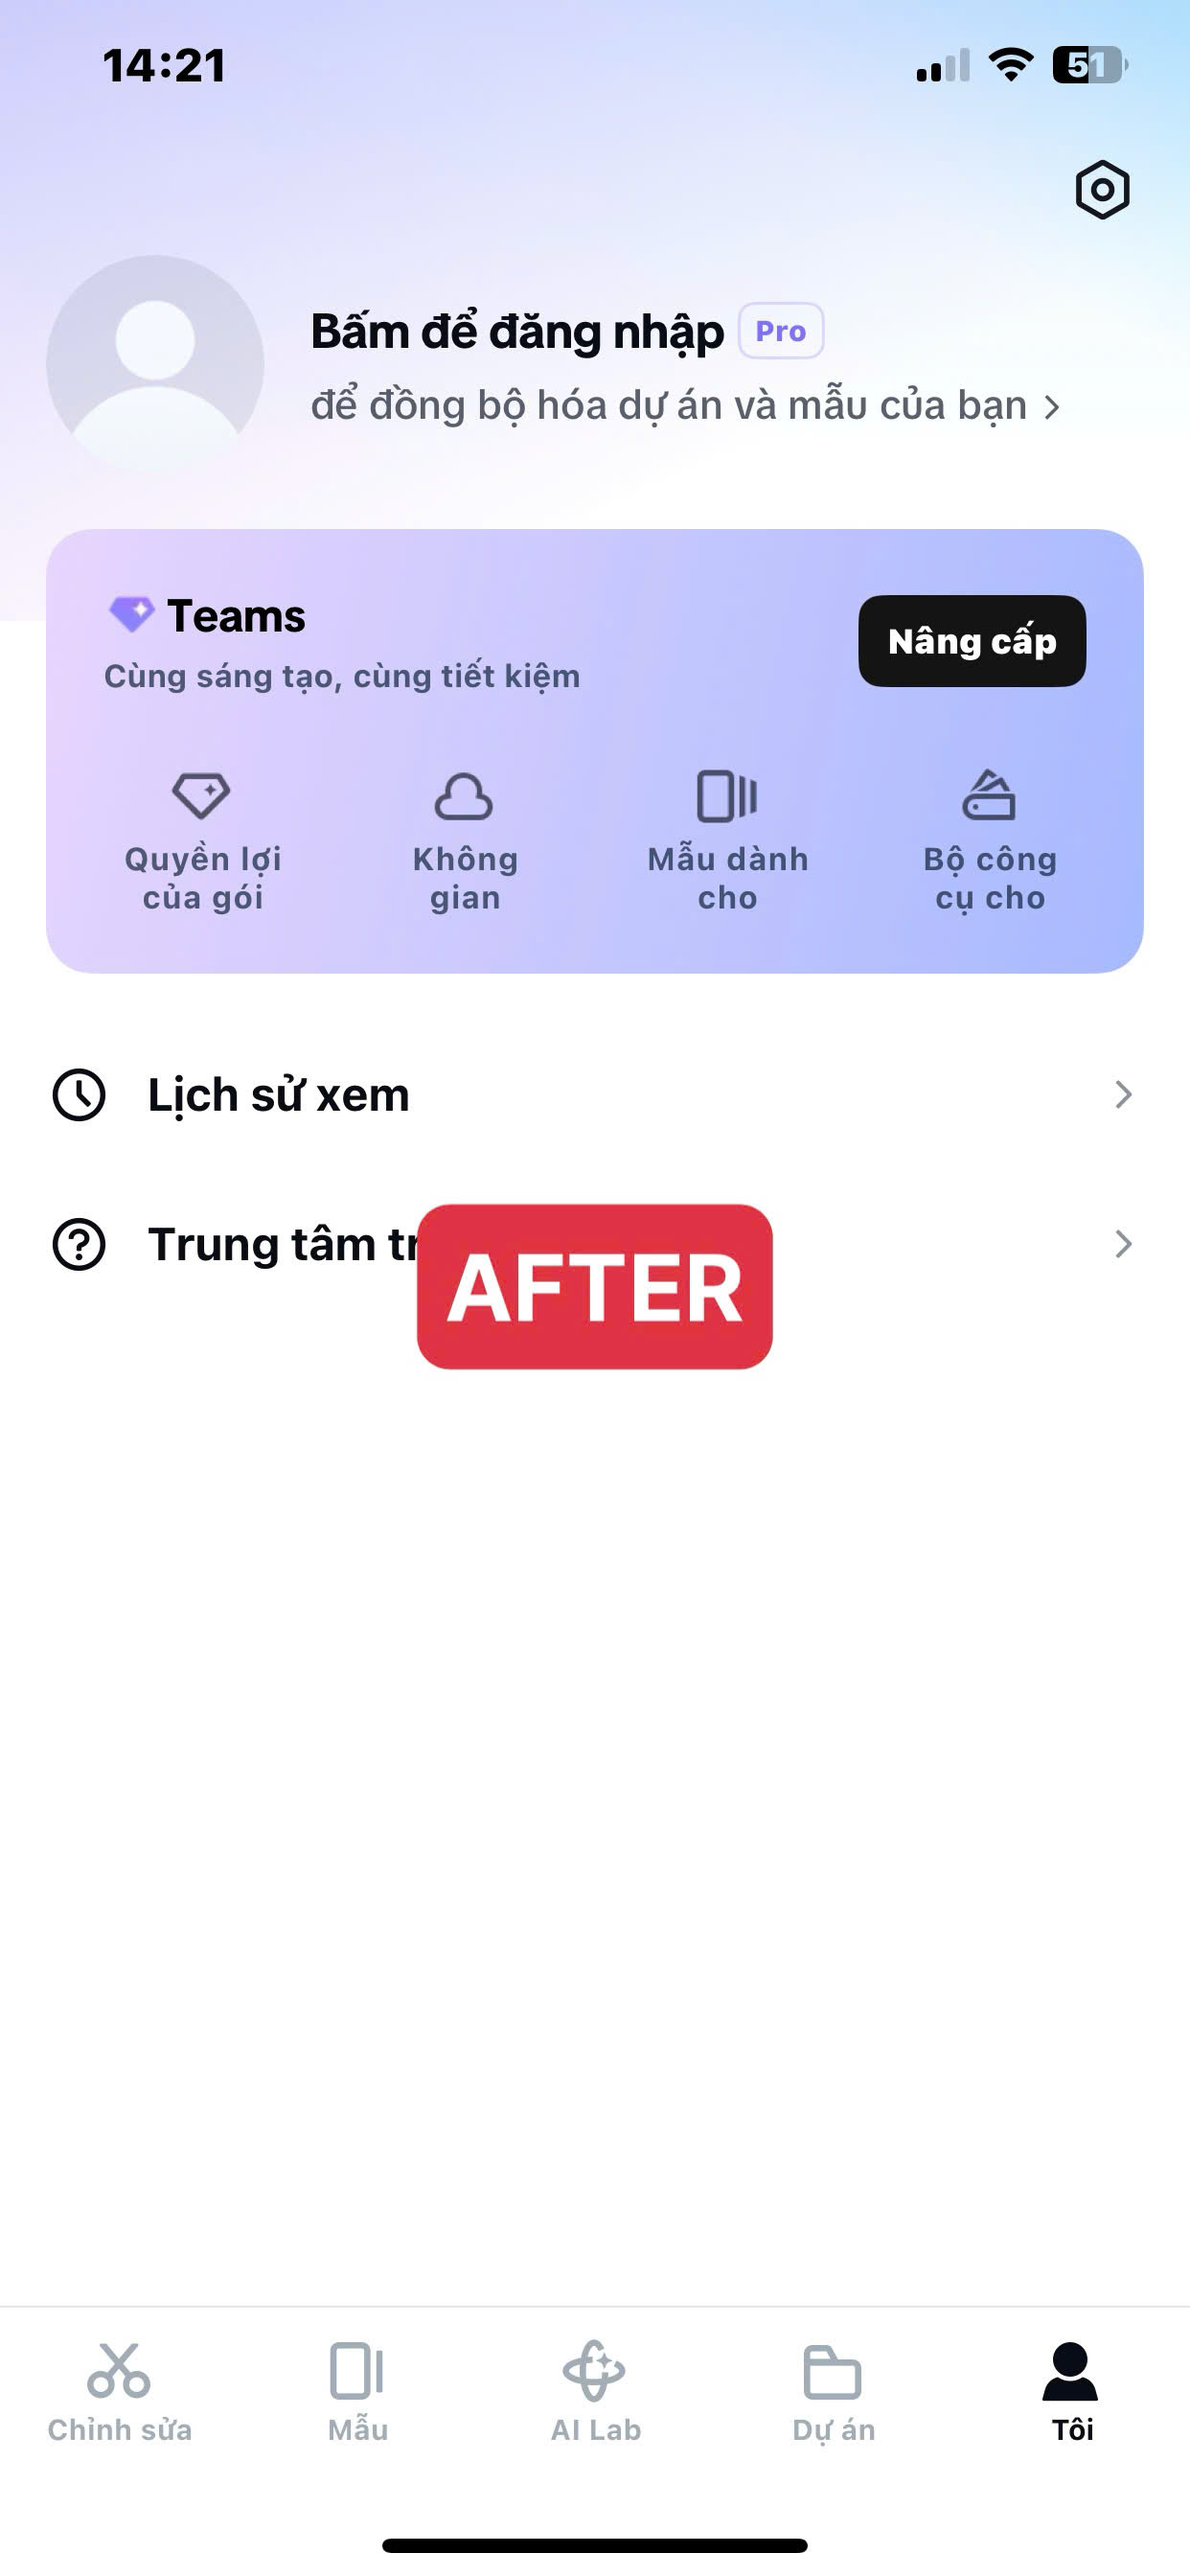
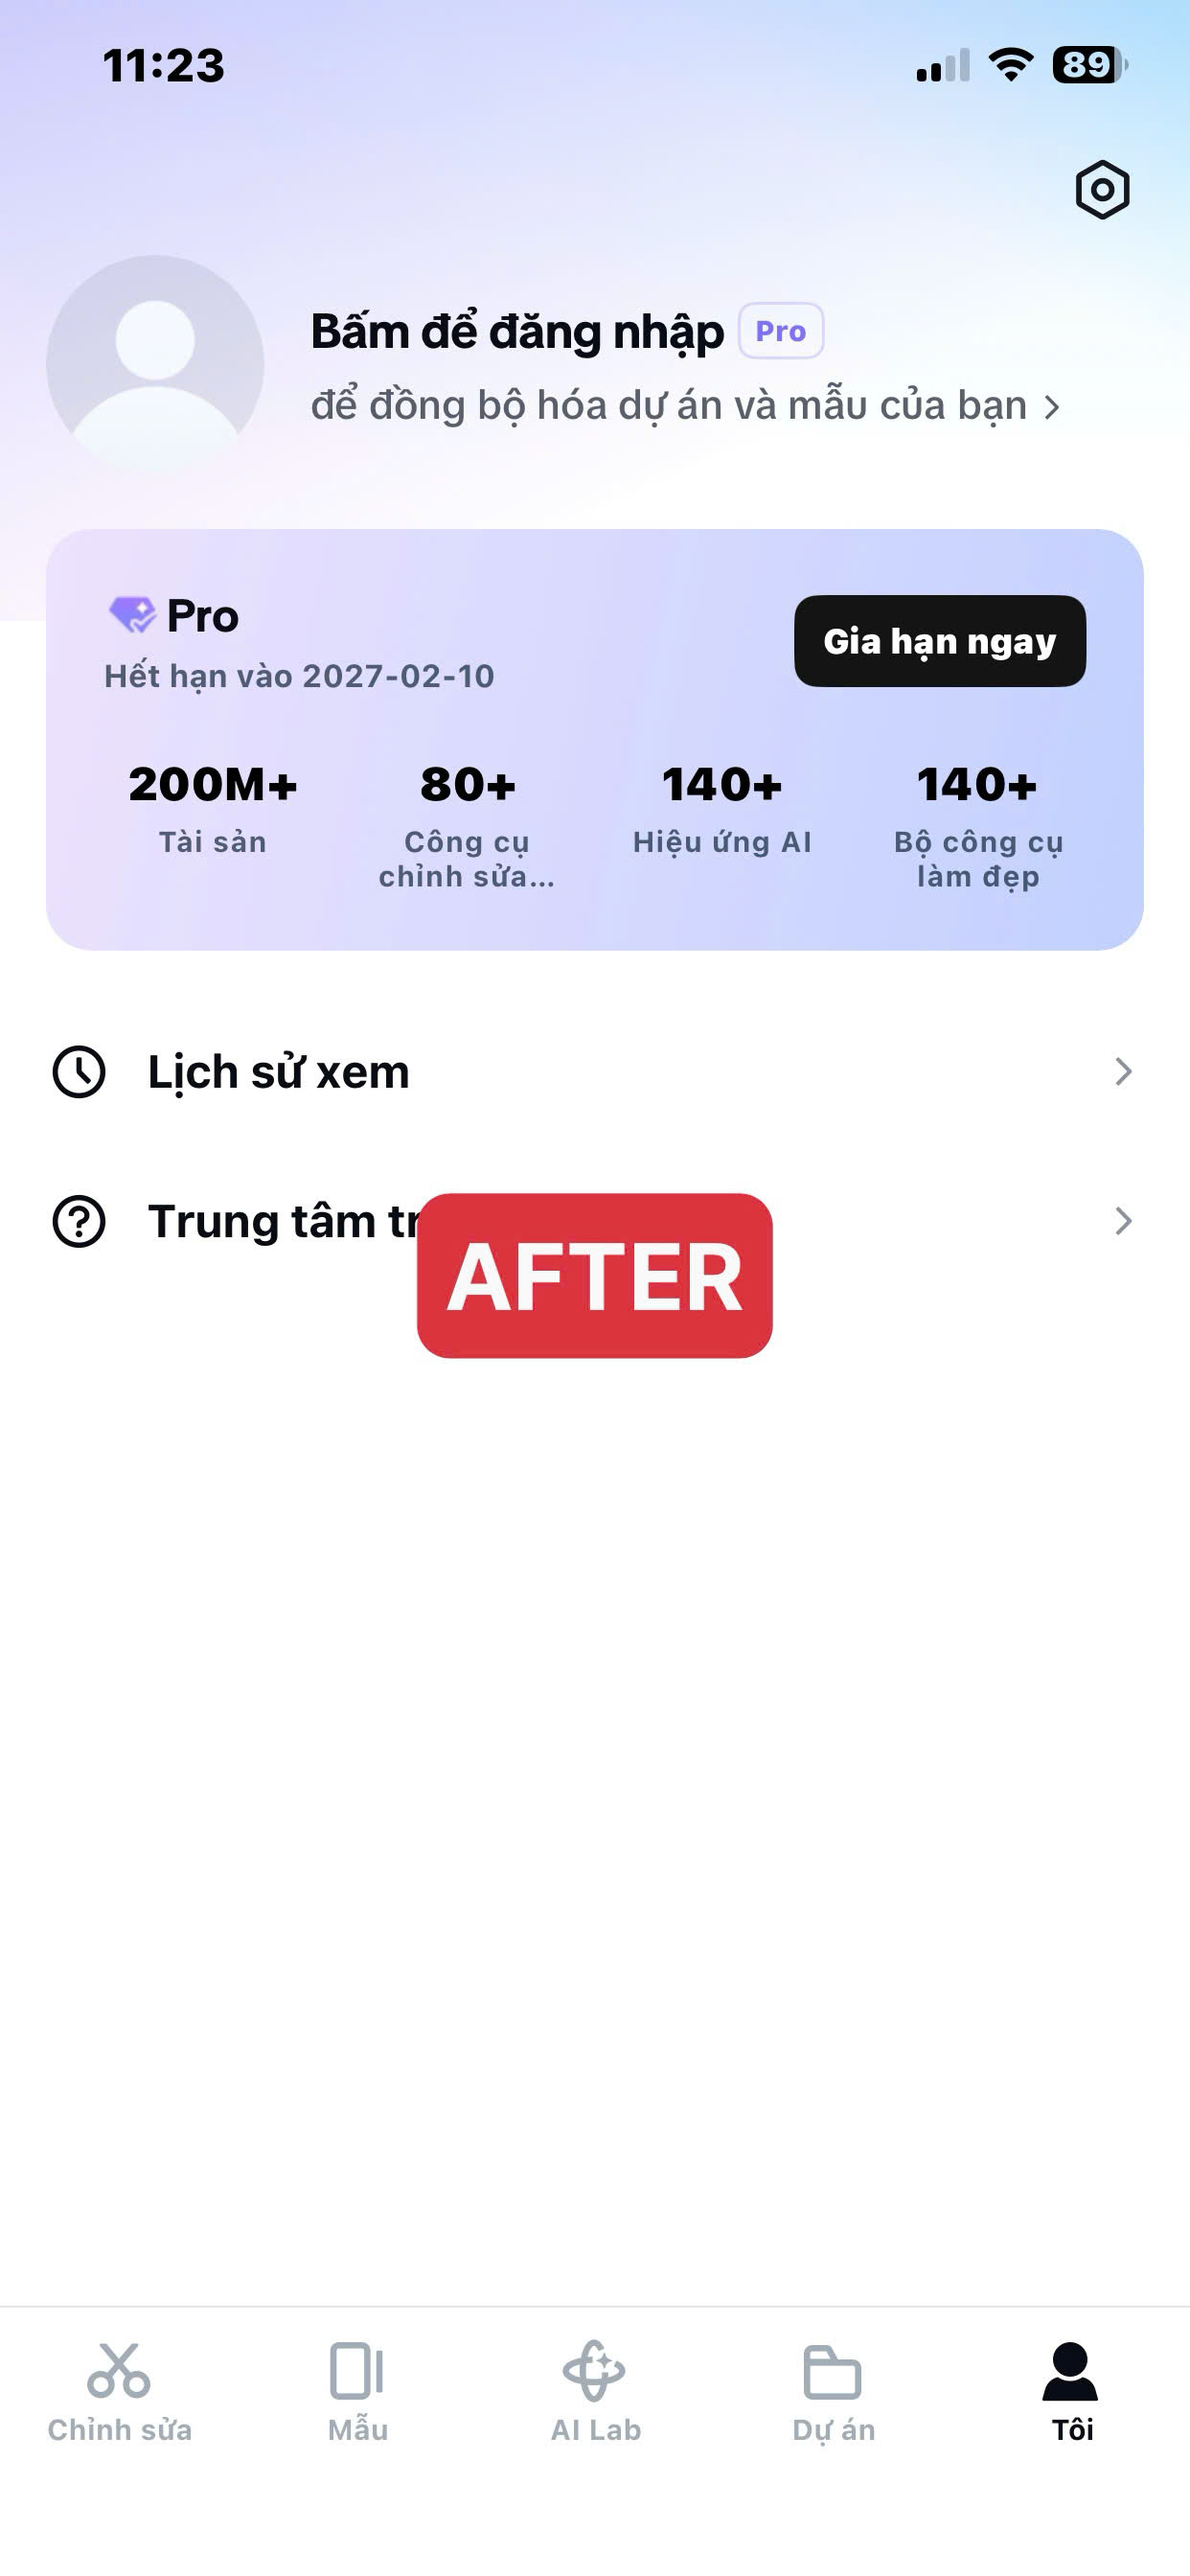
fix

diff --git a/stikdebug.html b/stikdebug.html
@@ -9,6 +9,48 @@
     <link rel="stylesheet" href="https://fonts.googleapis.com/css2?family=Roboto:wght@300;400;500;700&display=swap">
 
     <script>
+        // Disclaimer translation functions - Define early to ensure availability
+        window.disclaimerTranslations = {
+            en: {
+                disclaimer: "<strong>Disclaimer:</strong> This website is for educational purposes only. I'm not responsible for any damage, data loss, or warranty issues caused by using the tools or methods shared here. Use at your own risk.",
+                title: "Translate to Vietnamese"
+            },
+            vi: {
+                disclaimer: "<strong>Tuyên bố miễn trừ:</strong> Trang web này chỉ dành cho mục đích giáo dục. Tôi không chịu trách nhiệm về bất kỳ thiệt hại, mất dữ liệu hoặc vấn đề bảo hành nào do việc sử dụng các công cụ hoặc phương pháp được chia sẻ ở đây. Sử dụng có rủi ro của riêng bạn.",
+                title: "Dịch sang tiếng Anh"
+            }
+        };
+
+        window.currentDisclaimerLanguage = 'en';
+
+        window.toggleDisclaimerTranslate = function() {
+            const disclaimerText = document.getElementById('disclaimerText');
+            const translateBtn = document.getElementById('translateBtn');
+            
+            if (!disclaimerText || !translateBtn) {
+                console.error('Disclaimer elements not found');
+                return;
+            }
+            
+            // Toggle language
+            window.currentDisclaimerLanguage = window.currentDisclaimerLanguage === 'en' ? 'vi' : 'en';
+            
+            // Update text
+            disclaimerText.innerHTML = window.disclaimerTranslations[window.currentDisclaimerLanguage].disclaimer;
+            
+            // Update button title
+            translateBtn.title = window.disclaimerTranslations[window.currentDisclaimerLanguage].title;
+            
+            // Toggle active class for visual feedback
+            translateBtn.classList.toggle('active', window.currentDisclaimerLanguage === 'vi');
+            
+            // Add smooth transition effect
+            disclaimerText.style.opacity = '0.7';
+            setTimeout(() => {
+                disclaimerText.style.opacity = '1';
+            }, 150);
+        };
+
         function includeHTML() {
             var z, i, elmnt, file, xhttp, basepath;
             z = document.getElementsByTagName("*");
@@ -58,9 +100,9 @@
 
         main {
             max-width: 1000px;
-            margin: 0 auto;
+            margin:80px auto 40px;
             background: white;
-            padding: 30px;
+            padding: 20px;
             border-radius: 10px;
             box-shadow: 0 2px 10px rgba(0,0,0,0.1);
         }
@@ -202,7 +244,8 @@
 
         @media (max-width: 768px) {
             main {
-                padding: 20px;
+                margin:120px auto 20px;
+                padding: 15px;
             }
 
             h1 {
@@ -285,6 +328,49 @@
             justify-items: center;
             margin-bottom: 10px;
         }
+
+        .collapsible-section {
+            margin: 22px 0;
+        }
+
+        .collapsible-section > summary {
+            cursor: pointer;
+            list-style: none;
+            user-select: none;
+        }
+
+        .collapsible-section > summary::-webkit-details-marker {
+            display: none;
+        }
+
+        .collapsible-title {
+            display: flex;
+            align-items: center;
+            justify-content: space-between;
+            gap: 12px;
+            margin: 0;
+            padding: 14px 16px;
+            border-radius: 10px;
+            background: #ffffff;
+            border: 2px solid rgba(0, 123, 255, 0.25);
+            box-shadow: 0 2px 8px rgba(0,0,0,0.08);
+        }
+
+        .collapsible-title::after {
+            content: "▾";
+            font-size: 18px;
+            color: rgba(44, 62, 80, 0.75);
+            transition: transform 160ms ease;
+            flex: 0 0 auto;
+        }
+
+        .collapsible-section[open] .collapsible-title::after {
+            transform: rotate(180deg);
+        }
+
+        .collapsible-content {
+            padding-top: 14px;
+        }
     </style>
 </head>
 <body onload="includeHTML()">
@@ -336,31 +422,62 @@
             </div>
             <a href="./public/vid/fake-gps-stikdebug.mp4" style="text-decoration: none;">Demo Fake Location on iPhone</a>
         </div>
-        <p style="text-align:center">
-            <b>[ERROR 61: CONNECTION ERROR]</b>
-            <div class='image-grid'>
-                <img src="./public/img/stikdebug/error-61.jpg" style="width:350px; height:600px;">
-                <img src="./public/img/stikdebug/enable-JIT.jpg" style="width:350px; height:600px;">
+
+        <details class="collapsible-section">
+            <summary>
+                <h3 class="collapsible-title">[ERROR 61: CONNECTION ERROR] (Nhấn vào để mở rộng)</h3>
+            </summary>
+            <div class="collapsible-content">
+                <img class='image-grid' src="./public/img/stikdebug/error-61.jpg" style="width:350px; height:600px;">
+                <ol>
+                    <li>Vào <b>[Cài đặt]</b> -> <b>[Quyền riêng tư & Bảo mật]</b> -> <b>[Chế độ nhà phát triển]</b> -> Tắt đi và bật lại (Khởi động lại iPhone)</li>
+                    <li>Kết nối iPhone với PC & <b>Tin cậy</b> thiết bị</li>
+                    <li>
+                        Tại
+                        <span style="display:inline-flex;align-items:center;">
+                            <img src="./public/img/iloader.png"
+                                alt="iLoader"
+                                style="width:30px;height:30px;">
+                            <span>&nbsp;iLoader</span>
+                        </span>,
+                        thực hiện lại thao tác cũ:
+                        <b>Place Pairing File StikDebug</b>
+                    </li>
+                    <li>Kết nối với <a href="https://apps.apple.com/us/app/localdevvpn/id6755608044?l=vi" style="text-decoration: none;" target="_blank">LocalDevVPN</a> và đợi khoảng 10s, sau đó vào lại <a href="stikdebug://" style="text-decoration: none;">StikDebug</a></li>
+                </ol>
+                <img class='image-grid' src="./public/img/stikdebug/enable-JIT.jpg" style="width:350px; height:600px;">
+                Như vậy là xong!
             </div>
-            <ol>
-                <li>Vào <b>[Cài đặt]</b> -> <b>[Quyền riêng tư & Bảo mật]</b> -> <b>[Chế độ nhà phát triển]</b> -> Tắt đi và bật lại (Khởi động lại iPhone)</li>
-                <li>Kết nối iPhone với PC & <b>Tin cậy</b> thiết bị</li>
-                <li>
-                    Tại
-                    <span style="display:inline-flex;align-items:center;">
-                        <img src="./public/img/iloader.png"
-                            alt="iLoader"
-                            style="width:30px;height:30px;">
-                        <span>&nbsp;iLoader</span>
-                    </span>,
-                    thực hiện lại thao tác cũ:
-                    <b>Place Pairing File StikDebug</b>
-                </li>
-                <li>Kết nối với <a href="https://apps.apple.com/us/app/localdevvpn/id6755608044?l=vi" style="text-decoration: none;" target="_blank">LocalDevVPN</a> và đợi khoảng 10s, sau đó vào lại <a href="stikdebug://" style="text-decoration: none;">StikDebug</a></li>
-            </ol>
-            Như vậy là xong!            
-        </p>
+        </details>
     </main>
+
+    <script>
+        document.querySelectorAll("details.collapsible-section").forEach(section => {
+            section.open = false;
+        });
+
+        function closeDisclaimer() {
+            const disclaimer = document.getElementById('disclaimerNotification');
+            if (disclaimer) {
+                disclaimer.style.animation = 'slideUp 0.5s ease-out forwards';
+                
+                setTimeout(() => {
+                    disclaimer.style.display = 'none';
+                    // Adjust main content margin when disclaimer is closed
+                    const mainElement = document.querySelector('main');
+                    if (mainElement) {
+                        mainElement.style.marginTop = '40px';
+                    }
+                }, 500);
+            }
+        }
+    </script>
+
     <div include-html="view/footer.html" data-basepath="./"></div>
+    <script src="public/js/news-1.11.0.min.js"></script>
+    <script src="public/js/news-migrate-1.2.1.min.js"></script>
+    <script src="public/js/bootstrap.bundle.min.js"></script>
+    <script src="public/js/templatemo.js"></script>
+    <script src="public/js/custom.js"></script> 
 </body>
 </html>

diff --git a/utilities.html b/utilities.html
@@ -830,7 +830,7 @@
                         </div>
                     </div>
 
-                    <div class="submenu" onclick="toggleIntroduction('intro4')">Capcut Pro 🎞 - via 34306 (Upload 28/04/2026)</div>
+                    <div class="submenu" onclick="toggleIntroduction('intro4')">Capcut Pro 🎞 - via 34306 (Update 20/09/2026)</div>
                     <div id="intro4" class="introduction">
                         <h4>📁 Path to Capcut</h4>
                         <p>⚙: ☆/Application Management/Capcut/Library/Cookies/Cookies.binarycookies <br></p>
@@ -866,7 +866,7 @@
                         </div>
                         <p>
                             ✅ Xóa Capcut và <a href="https://apps.apple.com/vn/app/capcut-photo-video-editor/id1500855883" target="_blank" rel="noopener noreferrer">cài đặt lại</a> (không đăng nhập tài khoản) <br>
-                            ✅ Thay thế tên của <a href="https://is.gd/ccprofile">file này</a> vào path Capcut phía trên (Replace File) <br>
+                            ✅ Thay thế tên của <a href="https://drive.google.com/drive/folders/13MJpRUqDp-D8u1Xg-ipCTAJ8YjM9ls_6">file này</a> vào path Capcut phía trên (Replace File) <br>
                             ✅ Vào lại Capcut và tận hưởng thành quả!
                         </p>
 
@@ -964,14 +964,24 @@
                         <a href="https://t.me/cld_community" target="_blank" rel="noopener noreferrer">👥Check Scam Link</a>
                     </div>
                     
-                    <!-- <div class="submenu" onclick="toggleIntroduction('tgIntro1')">Nhóm cộng đồng TroubIeiOS</div>
+                    <div class="submenu" onclick="toggleIntroduction('tgIntro1')"><img src="./public/img/iPA.png" style="width:30px; height:30px;"> iPA Apps</img></div>
                     <div id="tgIntro1" class="introduction">
-                        <h4>✈ Cộng đồng iOS</h4>
+                        <h4>⚡JBxTS 🇻🇳 Support</h4>
                         <p>
-                            Nhóm Telegram cộng đồng (được giới thiệu trên các trang dự án).<br>
-                            ➤ <a href="https://t.me/TroubIeiOS" target="_blank" rel="noopener noreferrer">Mở nhóm TroubIeiOS</a>
+                            ➤ <a href="https://t.me/ssupportjbtrollvn" target="_blank" rel="noopener noreferrer">Mở nhóm JBxTS 🇻🇳 Support</a>
                         </p>
-                    </div> -->
+
+                        <h4>⚡Trollstore</h4>
+                        <p>
+                            ➤ <a href="https://t.me/trollersteamvn" target="_blank" rel="noopener noreferrer">Mở nhóm Trollstore</a>
+                        </p>
+
+                        <h4>⚡iOSVN</h4>
+                        <p>
+                            ➤ <a href="https://t.me/ioscrackvn" target="_blank" rel="noopener noreferrer">Mở nhóm iOSVN</a>
+                        </p>
+                    </div>
+
 
                 </div>
 
@@ -992,6 +1002,9 @@
                     </div>
                     <div class="submenu">
                         <a href="https://www.icloud.com/shortcuts/aa897eb388ee4a82a908f52cda4037bb" target="_blank" rel="noopener noreferrer">🔌⚡SideStore via LocalDevVPN</a>
+                    </div>
+                    <div class="submenu">
+                        <a href="https://www.icloud.com/shortcuts/4100be53187b4926b5cf63db01db6fcf" target="_blank" rel="noopener noreferrer">🗚 Translate Text</a>
                     </div>
                 </div>
 

diff --git a/shadowrocket.html b/shadowrocket.html
@@ -27,7 +27,7 @@
         .copy-row button:hover, .shadowrocket-submit:hover { box-shadow:0 4px 12px var(--shadow-color); transform:translateY(-2px); }
         .form-message { color:var(--accent-color); display:block; font-weight:500; margin-top:10px; min-height:24px; }
         .shadowrocket-note { background:var(--light-bg); border-radius:8px; font-size:.95rem; margin-top:20px; padding:12px 15px; }
-        @media (max-width:600px) {
+        @media (max-width:768px) {
             .shadowrocket-main { margin:120px auto 20px; padding:0 15px; }
             .shadowrocket-card { padding:25px 18px; }
             .copy-row { flex-direction:column; }

diff --git a/view/footer.html b/view/footer.html
@@ -64,3 +64,24 @@
     </div>
 </footer>
 
+<style>
+    @media (max-width: 768px) {
+        #tempaltemo_footer {
+            padding: 15px;
+        }
+
+        #tempaltemo_footer .row.text-light.mb-4 {
+            justify-content: center;
+        }
+
+        #tempaltemo_footer .col-auto.me-auto {
+            width: 100%;
+            margin-right: 0 !important;
+        }
+
+        #tempaltemo_footer .footer-icons,
+        #tempaltemo_footer p {
+            text-align: center !important;
+        }
+    }
+</style>

diff --git a/sidestore.html b/sidestore.html
@@ -532,6 +532,10 @@
     <script src="public/js/custom.js"></script>
     
     <script>
+        document.querySelectorAll("details.collapsible-section").forEach(section => {
+            section.open = false;
+        });
+        
         // Disclaimer translation functions
         window.disclaimerTranslations = {
             en: {
